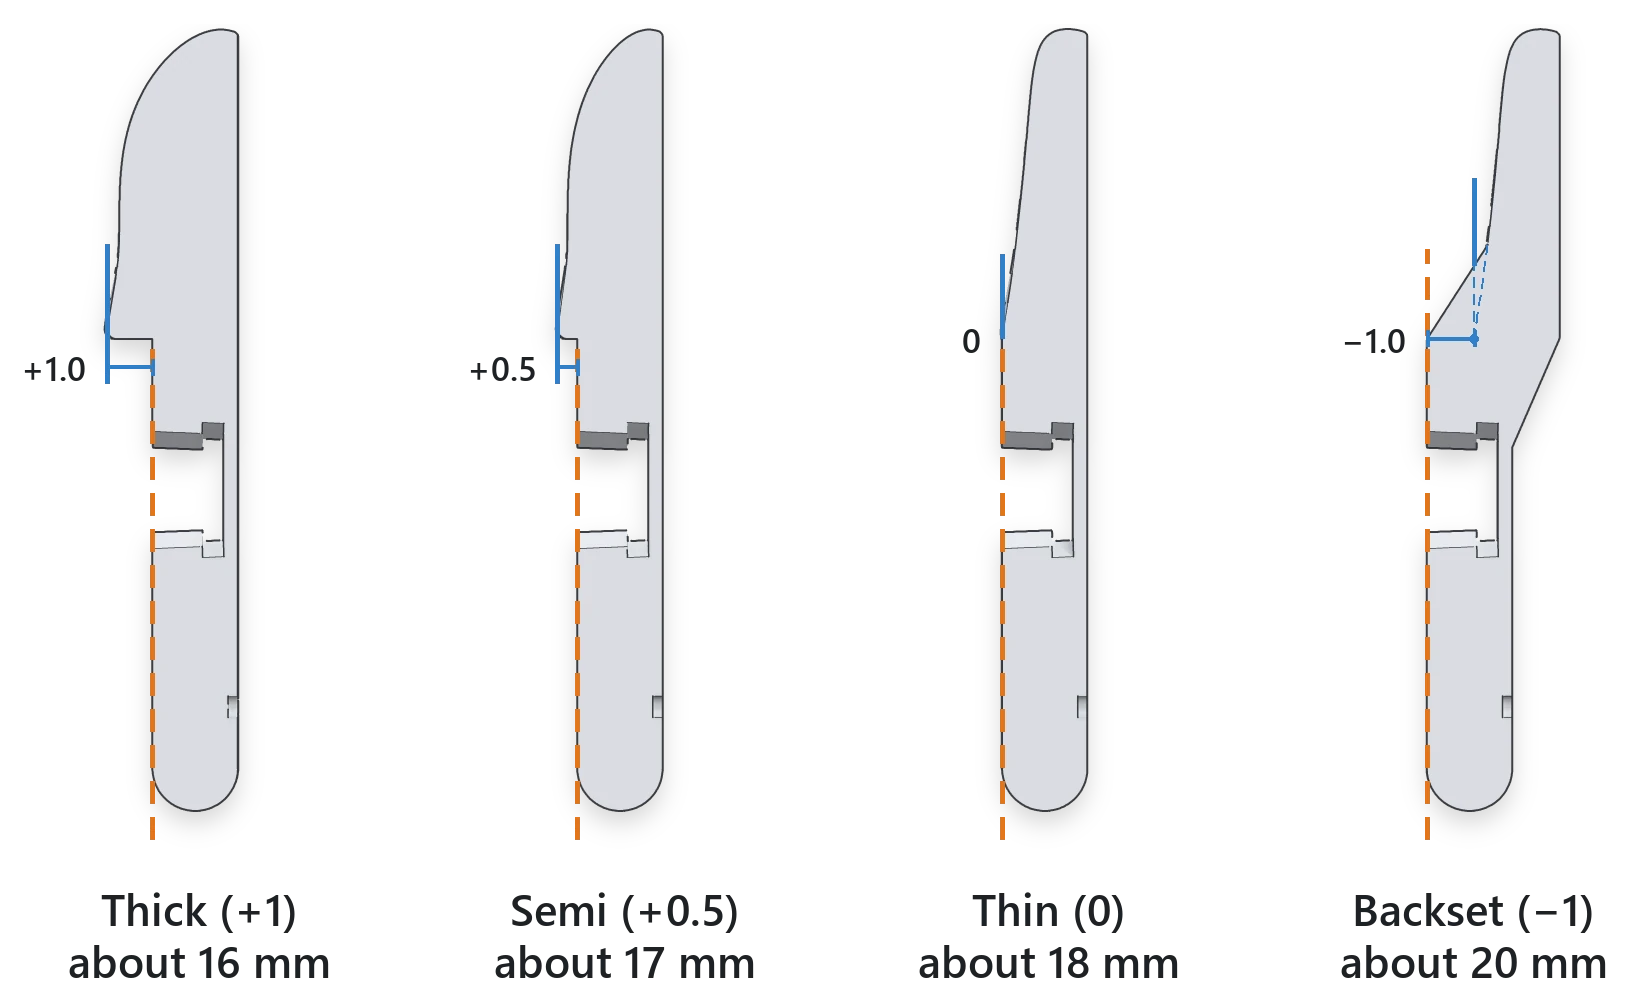
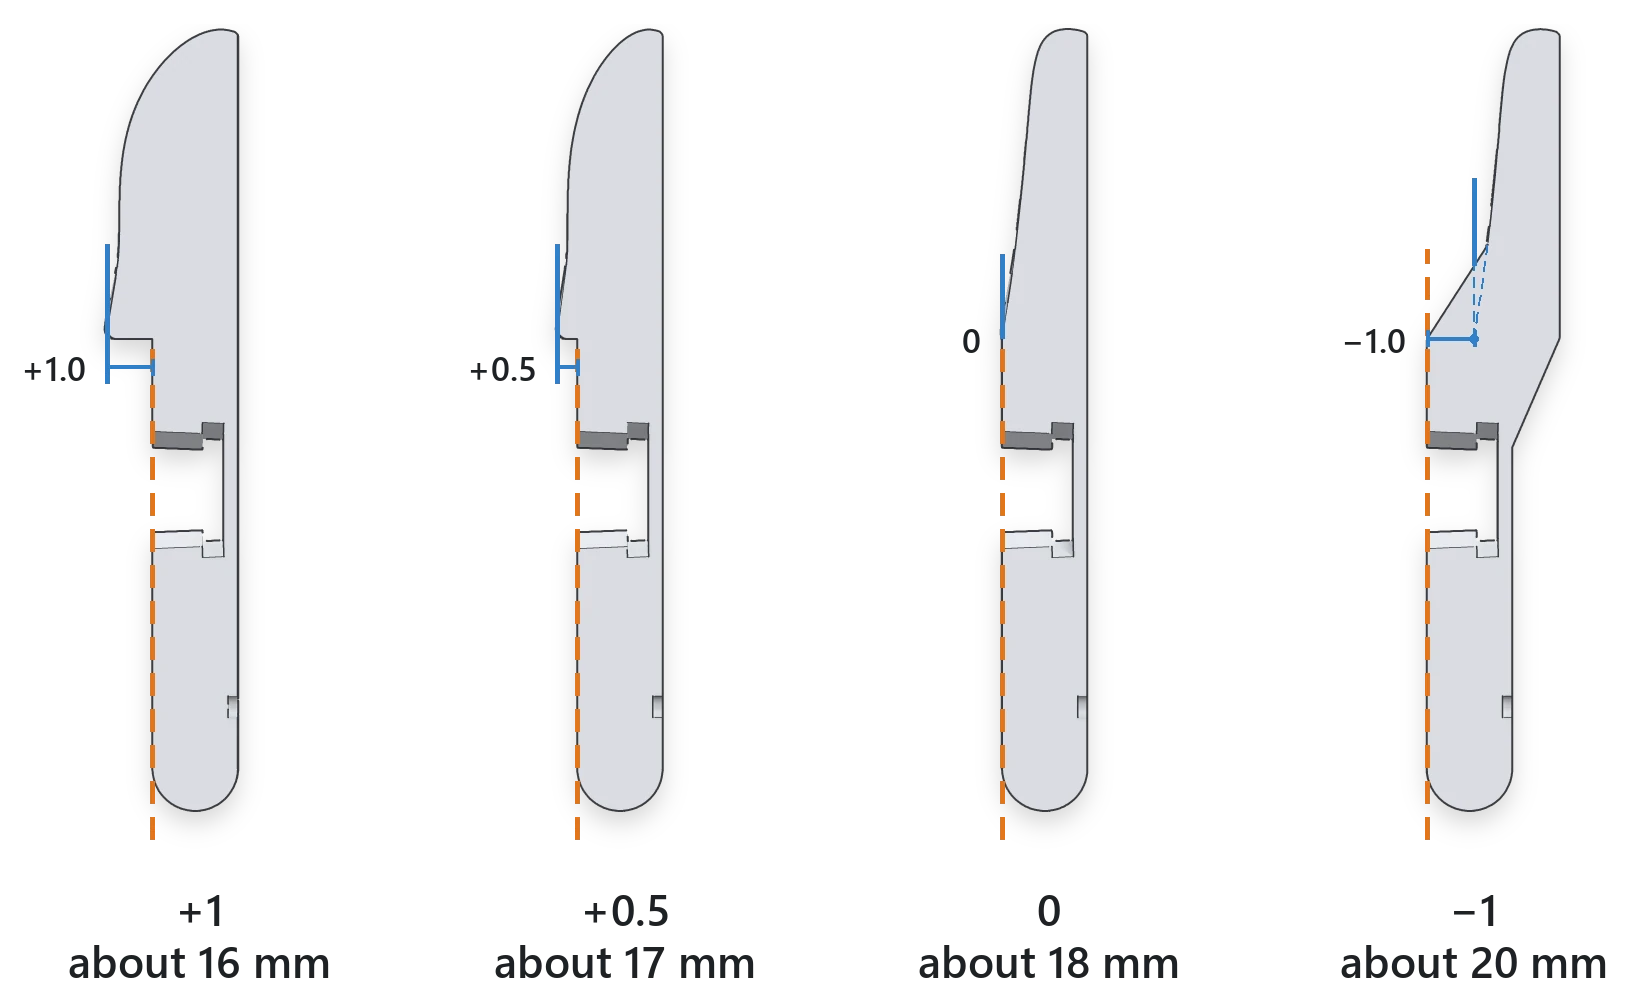
Key size figures: label the sizes +1, +0.5, 0 and -1
Re-rendered cad-key-profiles and cad-key-sizing (all four variants) with number labels; geometry and camera unchanged. Drops the VERIFY note for the re-render.

diff --git a/docs/proposals/self-build-golden-path.md b/docs/proposals/self-build-golden-path.md
@@ -70,8 +70,6 @@ The mapping is owner-confirmed (14–15 mm → +1, 19 mm → −1). Use the numb
 - Hosting: a GitHub release asset on svalboard/svalboard-self-print, so it inherits the repository's supporters-only access. Release URL: `https://github.com/svalboard/svalboard-self-print/releases/download/standard-build-v2.0.1/svalboard-lightly-standard-build-v2.0.1.zip`. The release isn't created; the guide carries a VERIFY note until it is. Build the release zip after the branch merges, so the README's commit is on main.
 - Rule: when a default changes, update the script's list, the guide's table and `START HERE.md` together, then publish the next patch version.
 
-## 8. Re-render the two key size figures
+## 8. Re-render the two key size figures (done)
 
-**Why:** `cad-key-profiles` and `cad-key-sizing` print "Thick (+1)", "Semi (+0.5)", "Thin (0)" and "Backset (−1)" in the images. The guide text and alt text now use the numbers.
-
-**Proposed change:** re-render both with the labels "+1", "+0.5", "0" and "−1". The label text is not in `Svalboard/tools/cad-render/cad3/batch1/figs_b1.py` (its `SIZES` list has the bare names), so find the script that made the current images first. Note that geo.py there loads `11mm Thick Medium.step` by name, which must change to `11 1 0.7` once the rename merges.
+`cad-key-profiles` and `cad-key-sizing` are re-rendered with the labels +1, +0.5, 0 and −1. The label text comes from `SIZE_LABEL` in `cad-render/cad3/batch1/geo.py`; geometry and camera are unchanged.
